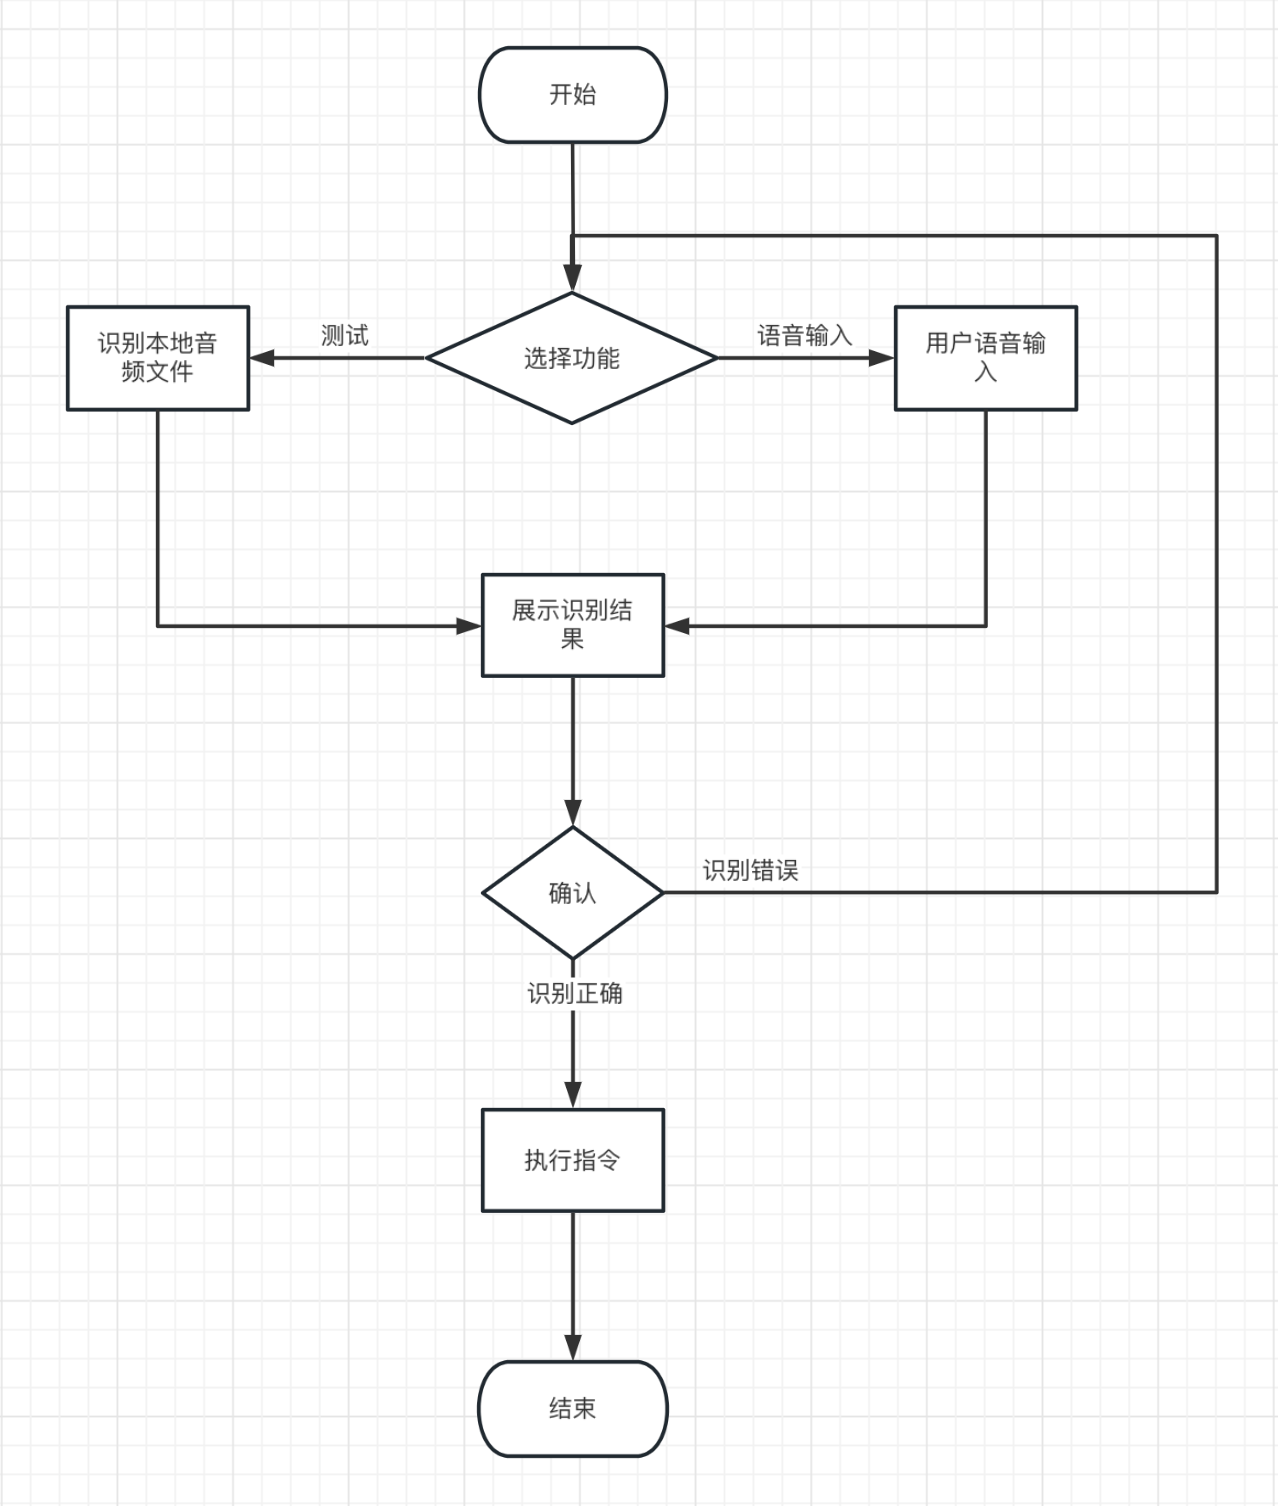
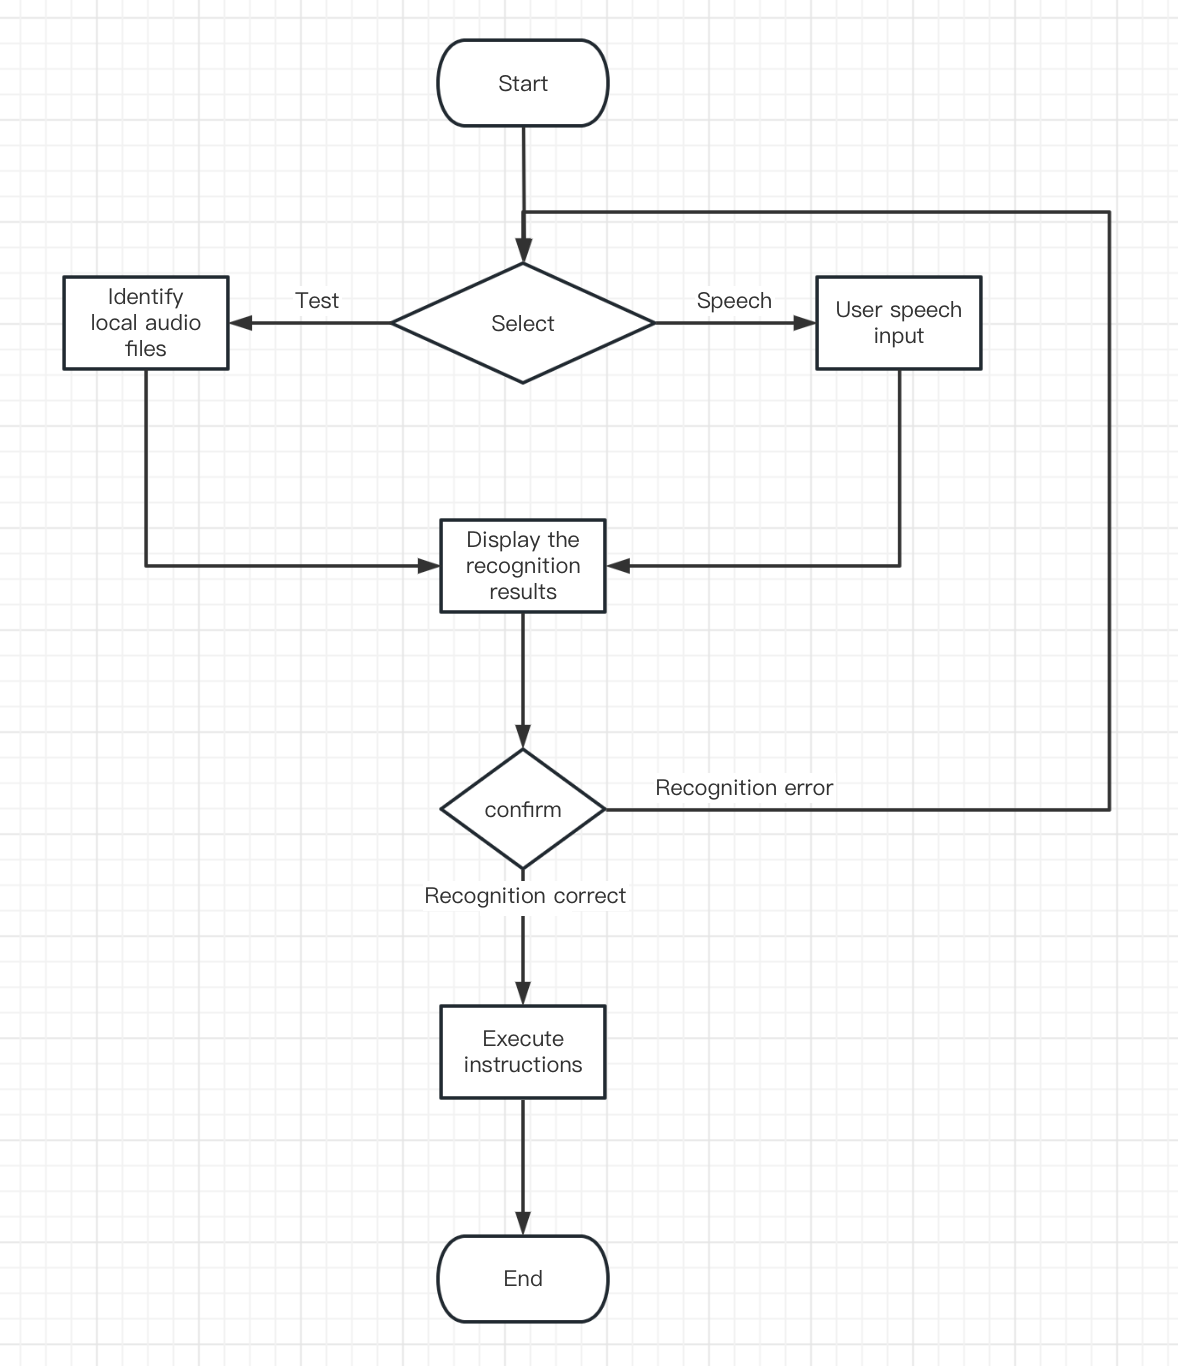
end

diff --git a/README.md b/README.md
@@ -2,37 +2,35 @@
 
 ## Lab1.1-Automatic Speech Recognition
 
-[toc]
-
 ### Introduction
 
-- 安装依赖
-  1. PocketSphinx是一个计算量和体积都很小的嵌入式语音识别引擎。
+- Dependencies Installation
+  1. **PocketSphinx** is an embedded speech recognition engine with small computation and size.
 
      ```sh
      pip3 install pocketsphinx
      ```
   
-  2. 安装语音转文本库依赖 SpeechRecognition
+  2. Install speech-to-text library dependency **SpeechRecognition**
   
      ```sh
      pip install SpeechRecognition
      ```
   
-  3. Python音频操作工具
+  3. Audio manipulation tool for **Python**
   
      ```sh
      brew install portaudio
      pip install pyaudio
      ```
   
-  4. 可视化框架Qt
+  4. Qt visualization framework
   
      ```sh
      pip install pyqt5
      ```
   
-- 文件目录
+- File directory
   
   ```shell
   .
@@ -55,13 +53,14 @@
       ├── index.wav
       ├── music.wav
       └── unknown.wav
-  
   4 directories, 16 files
   ```
   
-  其中test.py和guessTheWord.py是单独的测试文件，asr.py是整个项目的入口程序。
+  test.py and guessTheWord.py are separate test files. 
   
-- 运行主程序
+  asr.py is the entry point program for the whole project.
+  
+- Runn the main program
   
   ```sh
   python asr.py
@@ -69,22 +68,22 @@
   
   <img src="./resource/1.png" style="zoom: 50%;" />
   
-  选择左下方Test按钮，读取本地目录`wav/index.wav`作为用户输入，可以更改文件名以尝试不同的输入。
+  Select the button **Test** at the bottom left and read the local directory `wav/index.wav` as user input, you can change the filename to try different inputs.
   
   <img src="./resource/2.png" style="zoom:50%;" />
   
-  或者点击右下方按钮Start speaking，并开始说话。程序会自动识别语音输入结束，并将输入内容转换为文字展示给用户。
+  Or click the bottom right button **Start speaking**, and start speaking. The program automatically recognizes the end of voice input and converts the input into text to display to the user.
   
-- 流程图
+- Flow chart
   
   ![](./resource/3.png)
 
 ### The modifications to GUI and the codes
 
-1. 在ui上添加按钮，并在主窗口中与事件绑定，当点击按钮时，就开启录制（或从本地文件中读取音频文件用于测试）
+1. Add a button to the ui and bind it to the event in the main window. When the button is clicked, it will start recording (or read an audio file from a local file for testing).
 
    ```python
-   # ui文件
+   # ui file
    self.speak_btn = QtWidgets.QPushButton(self.centralwidget)
    self.speak_btn.setGeometry(QtCore.QRect(150, 390, 100, 51))
    
@@ -96,14 +95,14 @@
    ```
 
    ```python
-   # 主窗口
+   # Main window
    self.ui.speak_btn.clicked.connect(partial(self.getCommand))
    self.ui.test_btn.clicked.connect(partial(self.testCommand))
    ```
 
-   其中partial是`pyqt5`的`functools`包中一个偏函数，可以基于一个函数创建一个可调用对象，把原函数的某些参数固定，调用时只需要传递未固定的参数即可。
+   *partial* is a **partial function** in *pyqt5*'s functools package, which can be used to create a callable object based on a function, fixing some parameters of the original function, and calling it with the unfixed parameters.
 
-2. 获取用户音频（getCommand函数），在这里调用了`recognize_speech_from_mic`函数，传进去了识别器`recognizer`和`microphone`，这部分参照了模板中的函数，用于从麦克风中获取用户输入的内容，并转换为文字返回。
+2. To get the user's audio (*getCommand* function), we call the `recognize_speech_from_mic` function and pass it to the recognizer and microphone. This part refers to the functions in the template to get the user's input from the microphone. And return it as text.
 
    ```python
    def getCommand(self):
@@ -124,12 +123,12 @@
      self.showCommand()
    ```
 
-3. 返回后展示给用户确认是否识别正确，如果用户选择Yes，则去执行该指令
+3. After that, it is displayed to the user to confirm whether the recognition is correct, and if the user chooses **Yes**, the command is executed.
 
    ```python
    def showCommand(self):
      showMessage = QtWidgets.QMessageBox()
-     showMessage.setWindowTitle("提示")
+     showMessage.setWindowTitle("Tips")
      showMessage.setText("You said: {}".format(self.myCommand))
      buttonY = QtWidgets.QPushButton('Yes')
      buttonN = QtWidgets.QPushButton('No')
@@ -140,7 +139,7 @@
        self.execCommand()
    ```
 
-4. 执行指令前先使用`fuzzywuzzy`中的模糊匹配函数，从`commands`库中选择最匹配的一项指令，而后判断匹配度是否超过预设的阈值`score_threshold`，如果超过则直接执行，否则提示用户无法识别。
+4. Before executing an instruction, use the fuzzy matching function in `fuzzywuzzy` to select the most matching instruction from the `commands` library, and then determine whether the matching degree exceeds the preset threshold `score_threshold`. If it exceeds the threshold, it will be directly executed, otherwise it will prompt the user to not recognize it.
 
    ```python
    def execCommand(self):
@@ -149,14 +148,14 @@
        os.system(cmd)
      else:
        showMessage = QtWidgets.QMessageBox()
-       showMessage.setWindowTitle("警告")
+       showMessage.setWindowTitle("warn")
        showMessage.setText("Sorry, I can't recognize your command.")
        buttonY = QtWidgets.QPushButton('OK')
        showMessage.addButton(buttonY, QtWidgets.QMessageBox.YesRole)
        showMessage.exec_()
    ```
 
-5. 其中预设变量都在init中定义。
+5. The preset variables are defined in *init* function.
 
    ```python
    self.score_threshold = 60
@@ -167,9 +166,9 @@
    }
    ```
 
-6. 为了便于测试，增加了test按钮，用于从本地文件`./wav/index.wav中读取音频作为用户输入，这里预设了三个音频，分别对应三条指令，即
+6. For testing purposes, a test button was added to read audio as user input from the local file `./wav/index.wav`. There are three audio presets, one for each of the three commands, i.e
 
-   | 语音输入     | 执行指令                                |
+   | Speech Input | Instruction Execution                   |
    | :----------- | --------------------------------------- |
    | `coding`     | `open /Applications/IntelliJ\ IDEA.app` |
    | `play music` | `open /Applications/NeteaseMusic.app`   |
@@ -178,12 +177,12 @@
 
 ### The accuracy of speech recognition and how to improve it, if possible?
 
-1. 在这里使用的pocketsphinx库，由于是离线轻量级版本，导致识别的准确率很低，并且对于一些辅音和翘舌平舌也很难识别出俩，如play、open等词，经过了几十次尝试也并没有让它识别出来正确的结果。这可能是由于麦克风噪音比较大的原因（虽然人工听起来基本没什么噪音），也可能是语音语调不够准确，最大的原因我认为还是离线版本的模型本身质量较差，无法做到较高准确率的识别。
-2. 想要提高识别的准确率，可以从以下方面入手：
+1. The pocketsphinx library used here has a low recognition accuracy due to its off-line lightweight version, and it is also difficult to recognize some consonants and words with curved tongue and flat tongue, such as *play*, *open*, etc. After dozens of attempts, it has not been able to identify the correct results. This may be due to the loud microphone noise (although the artificial sound is basically no noise), or the intonation is not accurate enough. The biggest reason I think is **the poor quality of the offline version of the model itself**, which cannot achieve high accuracy recognition.
+2. If we want to improve the accuracy of recognition, we can start from the following aspects:
 
-   1. 调整pocketsphinx的参数：pocketsphinx提供了一系列参数，你可以尝试调整这些参数以提高识别准确率。比如换一个语言模型（使用谷歌、必应等付费api）、音频特征提取器、噪声抑制等参数。
+   1. **Adjusting pocketsphinx parameters**: pocketsphinx provides a number of parameters that you can try to adjust to improve the recognition accuracy. For example, a different language model (using paid apis such as Google, Bing, etc.), audio feature extractor, noise suppression, etc.
 
-   2. 换一个语音识别库，目前主流的Python语音识别库有：
+   2. **Another speech recognition library.** At present, the mainstream Python speech recognition libraries are:
 
       - CMU Sphinx (works offline)
 
@@ -203,12 +202,12 @@
 
       - Snowboy Hotword Detection (works offline)
 
-      上述语音识别软件库各个之间的侧重点不同，如：谷歌云语音侧重语音向文本转换，又如wit与apiai还提供超出基本语音识别的内置功能（识别讲话者意图的自然语言处理功能）。
+      These speech recognition libraries differ in their focus, with Google Cloud Voice focusing on speech-to-text conversion, and wit and apiai providing built-in functionality beyond basic speech recognition (natural language processing to identify the speaker's intent).
 
-   3. 自行训练模型，以达到更高的准确率，并能更好匹配应用场景。模型的训练需要考虑以下方面：
+   3. **Train your own model.** In order to achieve higher accuracy and better match the application scenario. The training of the model needs to consider the following aspects:
 
-      1. 数据集：使用大规模、高质量的数据集对模型进行训练。可以使用一些公开可用的语音数据集，如LibriSpeech、Mozilla Common Voice等。
-      2. 特征提取：语音信号是一种时域信号，需要将其转换为频域信号，即提取特征。常用的特征提取方法包括Mel频率倒谱系数（Mel-Frequency Cepstral Coefficients, MFCCs）和线性预测编码（Linear Predictive Coding, LPC）等。在选择特征提取方法时，需要考虑特征的稳定性和表征能力。
-      3. 模型架构：目前比较常用的语音识别模型包括卷积神经网络（Convolutional Neural Network, CNN）、循环神经网络（Recurrent Neural Network, RNN）和Transformer等。
-      4. 数据增强：通过对数据进行增强，如加入噪声、变速、变调等操作，可以提高模型的鲁棒性和泛化能力。
+      1. **Dataset:** Train the model on a large, high-quality dataset. Some publicly available speech datasets such as LibriSpeech, Mozilla Common Voice, etc., can be used.
+      2. **Feature extraction:** The speech signal is a time domain signal, which needs to be converted into a frequency domain signal, that is, to extract features. Commonly used feature extraction methods include Mel-Frequency Cepstral Coefficients (MFCCs) and Linear Predictive Coding (LPC). When selecting a feature extraction method, the stability and representation ability of the features should be considered.
+      3. **Model architecture:** The commonly used speech recognition models include Convolutional Neural Network (CNN), Recurrent Neural Network (RNN), Transformer, etc.
+      4. **Data Augmentation:** The robustness and generalization ability of the model can be improved by augmenting the data with operations such as adding noise, variable speed, and pitch sandhe.
 
